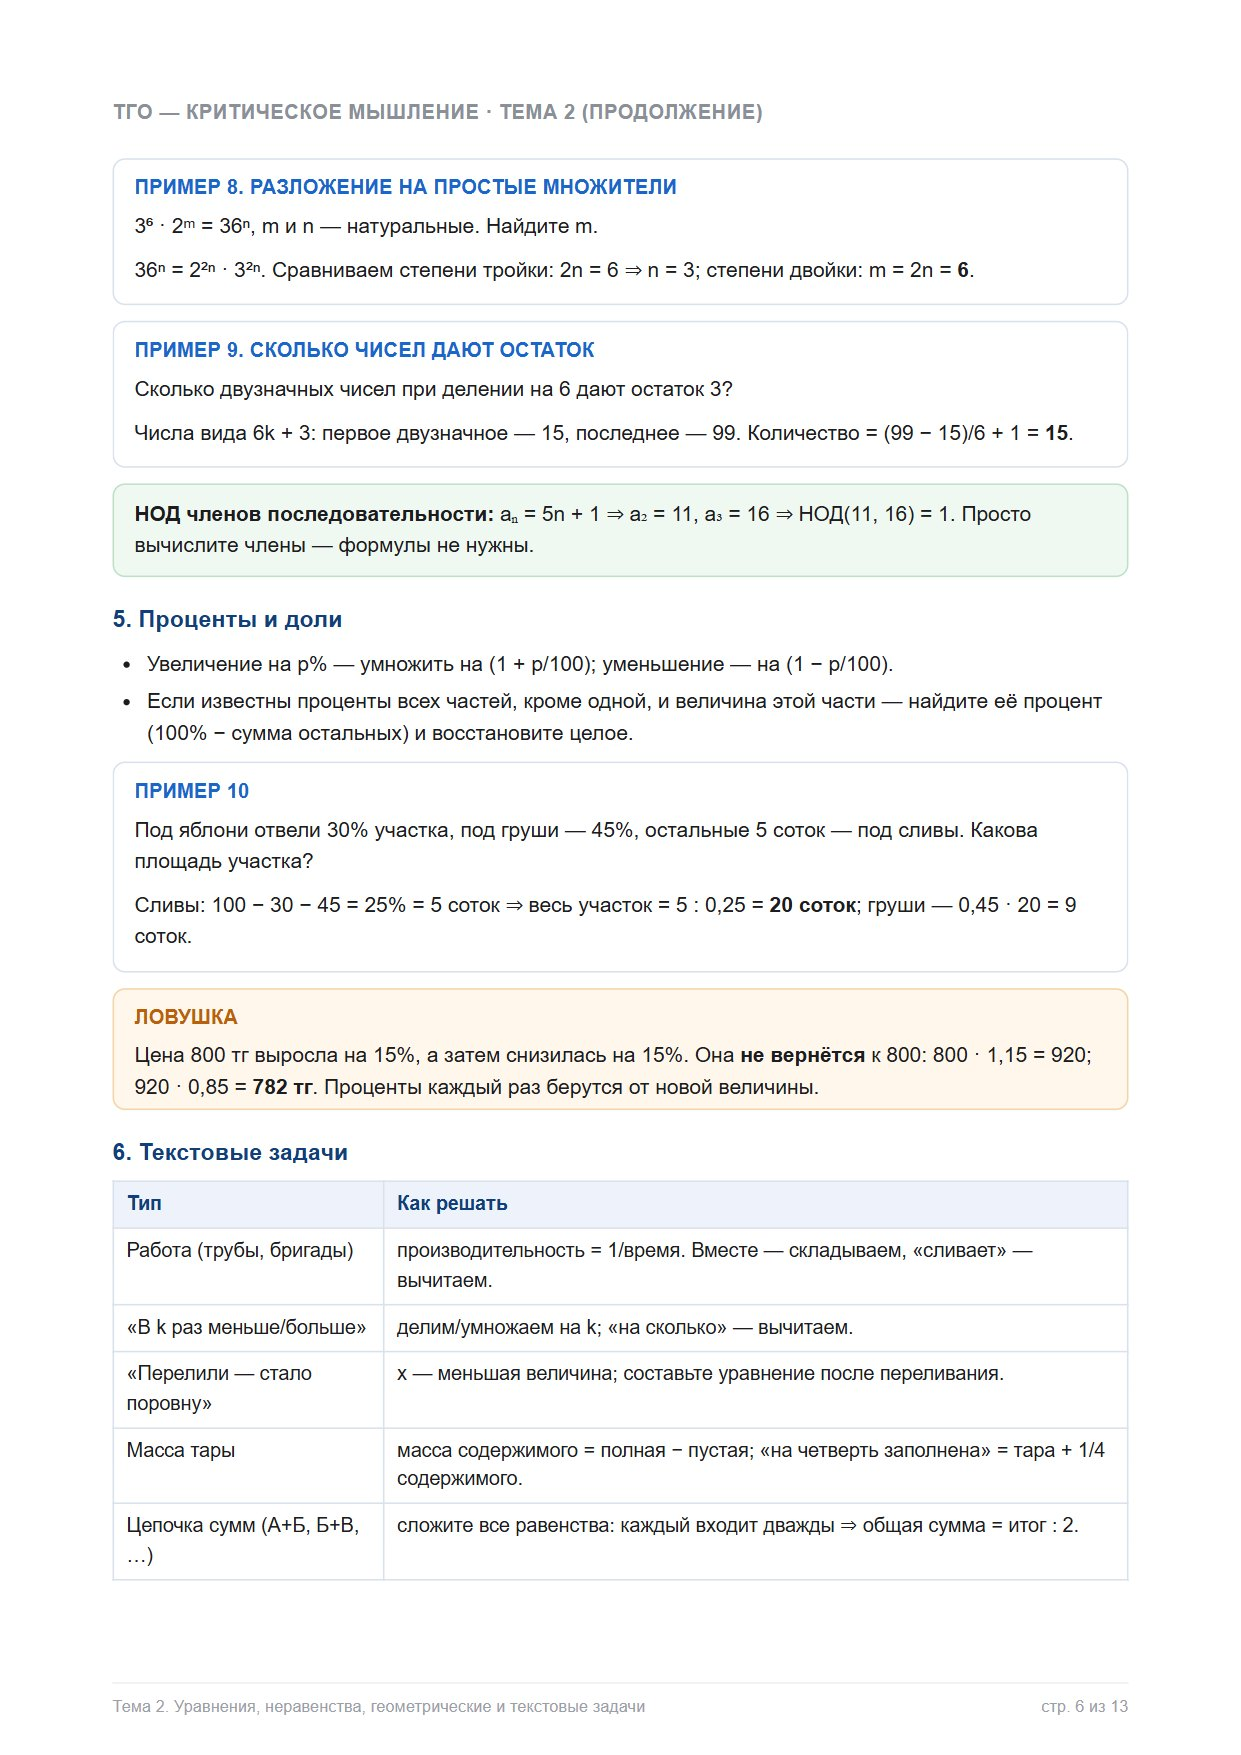
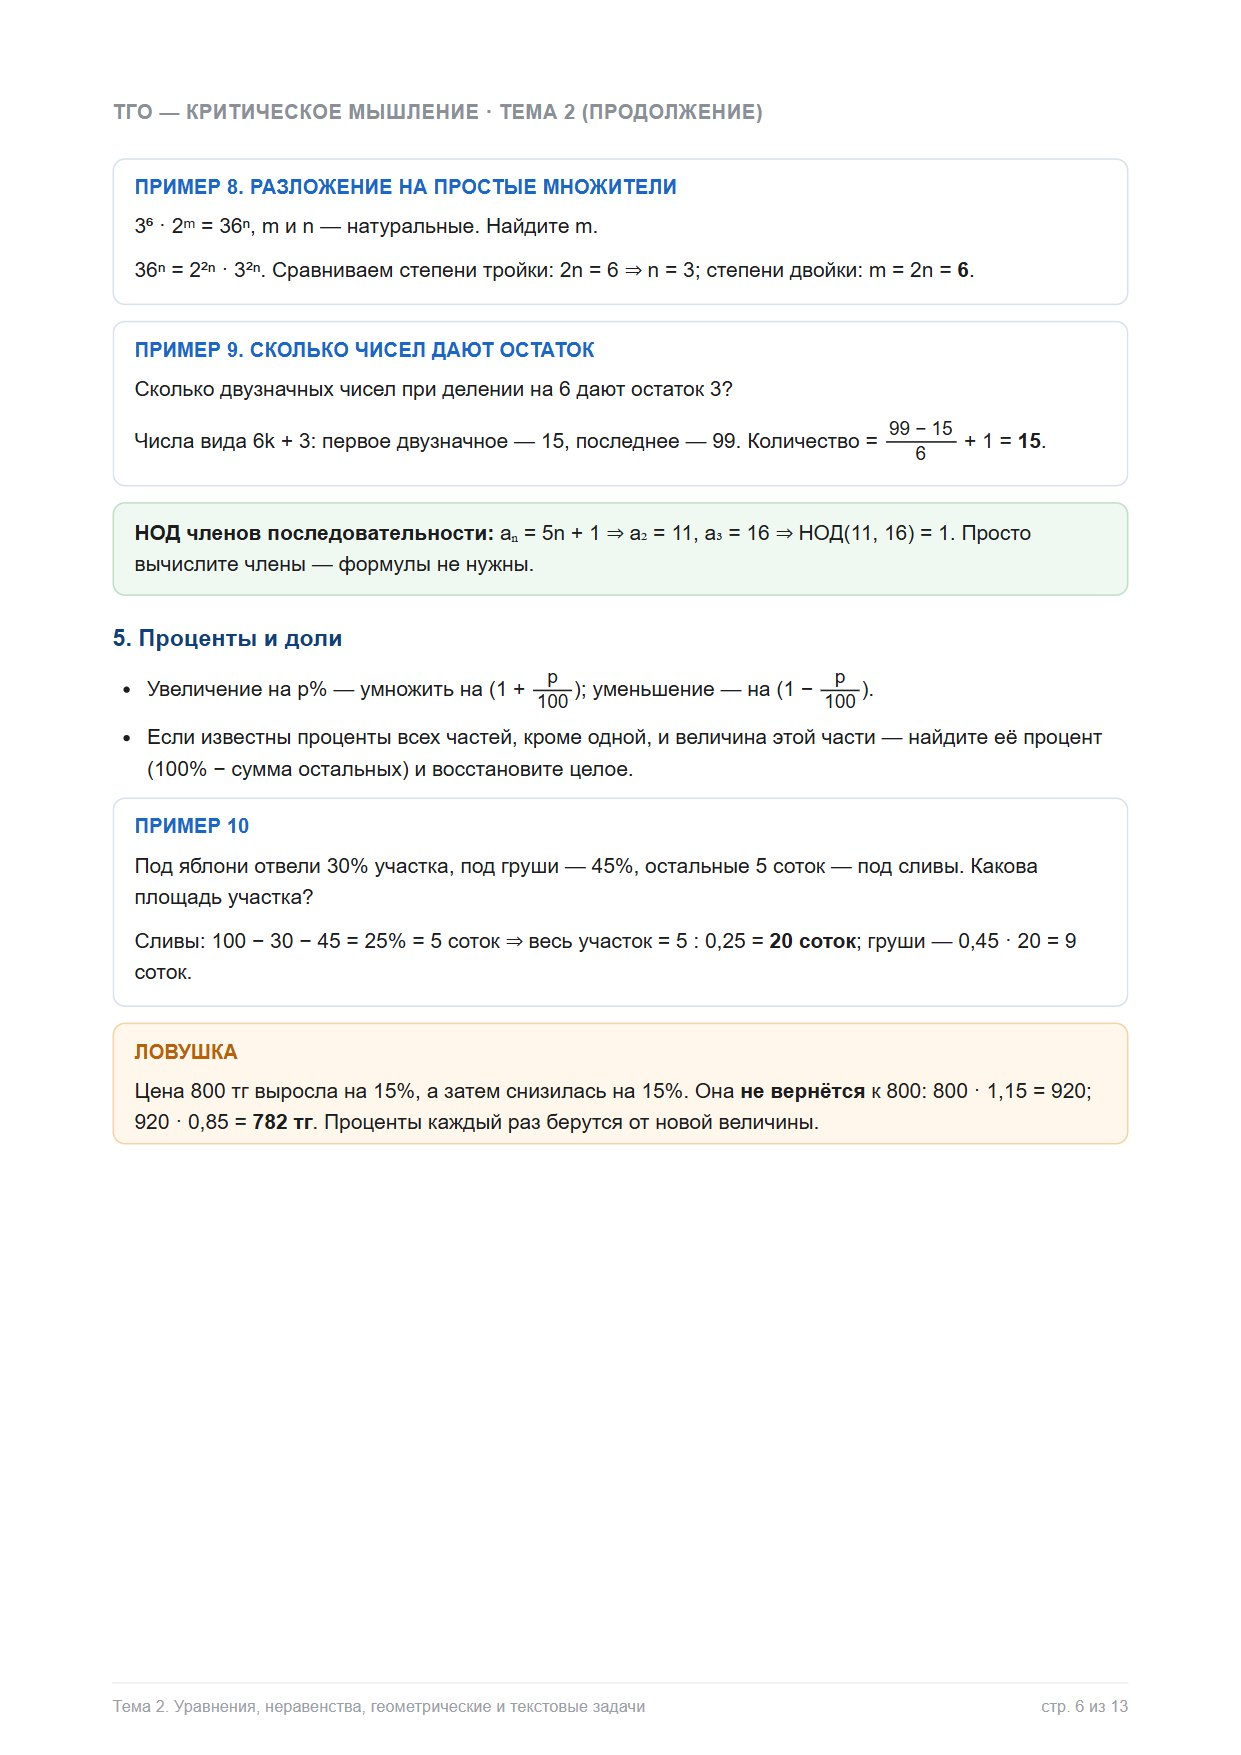
ТГО: show fractions with a horizontal fraction bar
Questions, options, explanations and conspects in the logic block wrote
fractions inline as «a/b», «(7x−12)/3», «1/(0,75−1)». ktFracHtml() now
renders them stacked (numerator over denominator, outer brackets dropped).
Operands are numbers or Latin-variable expressions only, so word pairs
like «признаки/классификация» and units like «км/ч» are left alone; other
KT blocks are unaffected. The same formatter is applied to the TGO
conspect pages (re-rendered). Bump style.css to v33, kt.js to v32.

diff --git a/kt.js b/kt.js
@@ -797,6 +797,30 @@ function openKT(code) {
   showKTPage();
 }
 
+// Дроби в ТГО (блок logic) записаны в данных как «a/b», «(7x−12)/3», «1/(0,75−1)» —
+// показываем их с горизонтальной дробной чертой. Работает по уже экранированному тексту.
+// Операнд: число (с разрядными пробелами, запятой, степенью), √число или выражение с
+// латинской переменной (x, 7x, √3a⁻²b⁻²). Кириллица не считается операндом:
+// «признаки/классификация» — слова через косую, а не дробь.
+const KT_FRAC_SUP = '⁰¹²³⁴⁵⁶⁷⁸⁹⁻ⁿ';
+const KT_FRAC_NUM = '[0-9]{1,3}(?: [0-9]{3})+|[0-9]+(?:,[0-9]+)?';
+const KT_FRAC_ATOM = `√?(?:${KT_FRAC_NUM})?[a-z](?:[a-z${KT_FRAC_SUP}]|[0-9](?![0-9]))*|√?(?:${KT_FRAC_NUM})[${KT_FRAC_SUP}]*`;
+const KT_FRAC_GROUP = '\\([^()]*\\)';
+const KT_FRAC_RE = new RegExp(`((?:${KT_FRAC_GROUP}|${KT_FRAC_ATOM})+)\\s*\\/\\s*(${KT_FRAC_GROUP}|${KT_FRAC_ATOM})(?![a-zа-яё0-9])`, 'gi');
+const KT_FRAC_UNIT = /^(ч|час|мин|с|год|км|м|см|мм|кг|г|л|сут)$/i;
+function ktFracHtml(html) {
+  const strip = x => (/^\([^()]*\)$/.test(x) ? x.slice(1, -1) : x);
+  return html.replace(KT_FRAC_RE, (m, a, b) => KT_FRAC_UNIT.test(b) ? m
+    : `<span class="frac"><span class="frac-n">${strip(a)}</span><span class="frac-d">${strip(b)}</span></span>`)
+    // «(11/12)h» → дробь без скобок; «(5⁶/5⁵)⁵» — скобки нужны для степени, оставляем.
+    .replace(/\((<span class="frac"><span class="frac-n">[^<]*<\/span><span class="frac-d">[^<]*<\/span><\/span>)\)(?![⁰¹²³⁴⁵⁶⁷⁸⁹])/g, '$1');
+}
+// Текст вопроса/варианта/пояснения: экранирование + дроби для ТГО.
+function ktText(item, text) {
+  const html = esc(text);
+  return item && item.block === 'logic' ? ktFracHtml(html) : html;
+}
+
 async function beginKT(code, typeId, lang) {
   const content = await getOrFetchTestContent(code);
   if (!content) return; // нет доступа или ошибка сети — гейт/тост уже показаны
@@ -873,7 +897,7 @@ function renderKTQuestion() {
     <div class="kt-progress"><div class="kt-progress-bar" style="width:${((s.idx + 1) / s.flat.length) * 100}%"></div></div>
     <p class="test-qnum-line">${I18N.t('kt.questionOf').replace('{n}', s.idx + 1).replace('{total}', s.flat.length)}</p>
     ${media}
-    <p class="test-question">${item.imageReplacesText ? '' : esc(item.q)}</p>
+    <p class="test-question">${item.imageReplacesText ? '' : ktText(item, item.q)}</p>
     ${item.image ? `<div class="kt-question-image${item.imageReplacesText ? ' math-question-image' : ''}"><img src="${item.image}" alt="${I18N.t('kt.questionImage.alt')}"></div>` : ''}
     ${Array.isArray(item.correct) ? `<p class="kt-multi-hint">${I18N.t('kt.multiHint')}</p>` : ''}
     <div class="test-options" id="ktOptions">
@@ -882,7 +906,7 @@ function renderKTQuestion() {
         const isSel = isMulti ? (Array.isArray(s.answers[s.idx]) && s.answers[s.idx].includes(i)) : s.answers[s.idx] === i;
         return `
         <button class="test-opt ${isSel ? 'is-selected' : ''}" data-opt="${i}">
-          <span class="test-radio ${isMulti ? 'is-checkbox' : ''}" aria-hidden="true"></span>${item.optionImages && item.optionImages[i] ? `<span class="test-opt-image"><img src="${item.optionImages[i]}" alt="${I18N.t('kt.optionImage.alt')}"></span>` : `<span class="test-opt-label">${esc(o)}</span>`}
+          <span class="test-radio ${isMulti ? 'is-checkbox' : ''}" aria-hidden="true"></span>${item.optionImages && item.optionImages[i] ? `<span class="test-opt-image"><img src="${item.optionImages[i]}" alt="${I18N.t('kt.optionImage.alt')}"></span>` : `<span class="test-opt-label">${ktText(item, o)}</span>`}
         </button>`;
       }).join('')}
     </div>
@@ -1117,9 +1141,9 @@ function openKTReview() {
       else if (isUserOpt) { cls += ' wrong'; tag = `<span class="rev-tag bad">${I18N.t('rev.yourAnswerBad')}</span>`; }
       // Объяснение для студентов по каждому варианту (requirement #4) — если есть в данных.
       const expl = item.explanations && item.explanations[oi]
-        ? `<div class="rev-opt-expl">${esc(item.explanations[oi])}</div>` : '';
+        ? `<div class="rev-opt-expl">${ktText(item, item.explanations[oi])}</div>` : '';
       const optContent = item.optionImages && item.optionImages[oi]
-        ? `<span class="rev-opt-image"><img src="${item.optionImages[oi]}" alt="${I18N.t('kt.optionImage.alt')}"></span>` : `<span>${esc(o)}</span>`;
+        ? `<span class="rev-opt-image"><img src="${item.optionImages[oi]}" alt="${I18N.t('kt.optionImage.alt')}"></span>` : `<span>${ktText(item, o)}</span>`;
       return `<div class="${cls}"><div class="rev-opt-row">${optContent}${tag}</div>${expl}</div>`;
     }).join('');
     const why = item.explanations ? '' : (item.why
@@ -1130,7 +1154,7 @@ function openKTReview() {
     // ответил ли пользователь верно), раскрывается по клику, изолирован своей карточкой.
     const conspectBody = item.conspectImage
       ? `<div class="rev-conspect-body"><img class="rev-conspect-image" src="${item.conspectImage}" alt="${I18N.t('rev.conspect')}"></div>`
-      : (item.conspect ? `<div class="rev-conspect-body">${esc(item.conspect)}</div>` : '');
+      : (item.conspect ? `<div class="rev-conspect-body">${ktText(item, item.conspect)}</div>` : '');
     const conspectBlock = conspectBody
       ? `<details class="rev-conspect-block"><summary class="rev-conspect-btn">${I18N.t('rev.conspects')}</summary>${conspectBody}</details>`
       : '';
@@ -1139,7 +1163,7 @@ function openKTReview() {
     return `
       <div class="rev-item ${wrong ? 'is-wrong' : 'is-ok'}">
         <span class="rev-block">${blockTag}</span>
-        <p class="rev-q"><span class="test-qnum">${i + 1}.</span> ${item.imageReplacesText ? '' : esc(item.q)}</p>
+        <p class="rev-q"><span class="test-qnum">${i + 1}.</span> ${item.imageReplacesText ? '' : ktText(item, item.q)}</p>
         ${item.image ? `<div class="kt-question-image${item.imageReplacesText ? ' math-question-image' : ''}"><img src="${item.image}" alt="${I18N.t('kt.questionImage.alt')}"></div>` : ''}
         ${item.passage ? `<div class="kt-reading-passage">${esc(item.passage)}</div>` : ''}
         <div class="rev-opts">${opts}</div>

diff --git a/style.css b/style.css
@@ -1646,3 +1646,11 @@ html[data-theme="dark"] .math-question-image{
     transition-duration:.001ms !important;
   }
 }
+
+/* Дробь с горизонтальной чертой (ТГО: «a/b» в данных → числитель над знаменателем) */
+.frac{
+  display:inline-flex; flex-direction:column; align-items:center; vertical-align:middle;
+  font-size:.92em; line-height:1.15; margin:0 .12em; text-align:center;
+}
+.frac-n{ padding:0 .18em .08em; }
+.frac-d{ padding:.08em .18em 0; border-top:1.2px solid currentColor; align-self:stretch; }

diff --git a/cabinet.html b/cabinet.html
@@ -37,7 +37,7 @@
   });
 })();
 </script>
-<link rel="stylesheet" href="style.css?v=32">
+<link rel="stylesheet" href="style.css?v=33">
 <script>
   // Если токен уже есть — скрываем гостевой экран ещё до первой отрисовки страницы,
   // чтобы при переходе на кабинет с сохранённой сессией не мелькало «Войдите, чтобы продолжить».

diff --git a/index.html b/index.html
@@ -37,7 +37,7 @@
   });
 })();
 </script>
-<link rel="stylesheet" href="style.css?v=32">
+<link rel="stylesheet" href="style.css?v=33">
 </head>
 <body>
 
@@ -440,6 +440,6 @@
 
 <script src="i18n.js?v=4"></script>
 <script src="script.js?v=30"></script>
-<script src="kt.js?v=31"></script>
+<script src="kt.js?v=32"></script>
 </body>
 </html>
